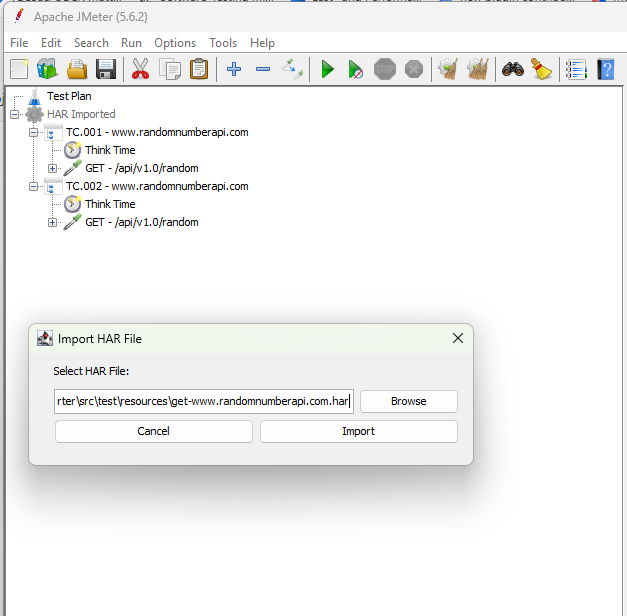
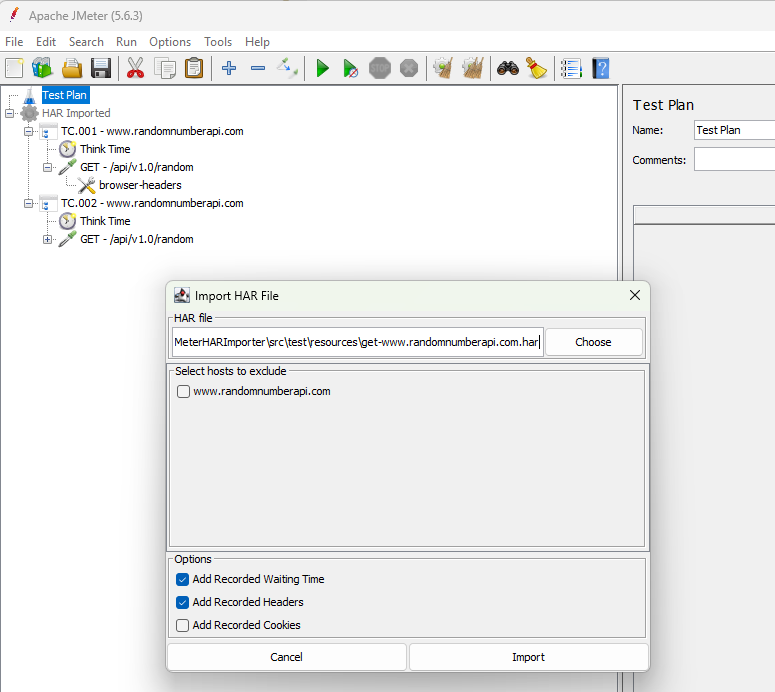
group by timer
and again update version info

Changed region(s): [[0.0, 0.0, 1.0, 1.0], [0.6061, 0.6477, 0.697, 0.6786]]

diff --git a/src/main/java/de/qytera/jmeterharimporter/HARImporter.java b/src/main/java/de/qytera/jmeterharimporter/HARImporter.java
@@ -30,7 +30,9 @@ import java.net.MalformedURLException;
 import java.net.URI;
 import java.net.URL;
 import java.util.Date;
+import java.util.HashMap;
 import java.util.HashSet;
+import java.util.Map;
 import java.util.Set;
 
 public class HARImporter {
@@ -121,19 +123,12 @@ public class HARImporter {
             // Create a Thread Group to hold the requests
             JMeterTreeNode threadGroupNode = addComponent(createThreadGroup(), root);
 
+            Map<Long, JMeterTreeNode> transactionControllers = new HashMap<>();
+            Map<Long, Boolean> transactionControllerHasTimer = new HashMap<>();
+
             int i = 1;
             long lastTimestamp = -1;
             for (HarEntry harEntry : this.har.getLog().getEntries()) {
-                HarRequest harRequest = harEntry.getRequest();
-                URI uri = URI.create(harRequest.getUrl());
-                if (this.hostsIgnored.contains(uri.getHost())) {
-                    continue;
-                }
-                // add a transaction controller for each entry to group the samplers
-                JMeterTreeNode transactionControllerNodeSub = addComponent(createTransactionController(
-                                "TC.%03d - %s".formatted(i++, uri.getHost())),
-                        threadGroupNode);
-
                 // calculate think time
                 if (lastTimestamp == -1) {
                     lastTimestamp = harEntry.getStartedDateTime().getTime(); // first entry should become 0
@@ -142,9 +137,26 @@ public class HARImporter {
                 long currentEntryStartTime = harEntry.getStartedDateTime().getTime();
                 long timeDifference = currentEntryStartTime - lastTimestamp;
 
+                HarRequest harRequest = harEntry.getRequest();
+                URI uri = URI.create(harRequest.getUrl());
+                if (this.hostsIgnored.contains(uri.getHost())) {
+                    continue;
+                }
+                // add a transaction controller for each entry to group the samplers
+                if (transactionControllers.get(timeDifference) == null) {
+                    TransactionController transactionController = createTransactionController("TC.%03d - %s".formatted(i++, uri.getHost()));
+                    JMeterTreeNode transactionControllerNodeSub = addComponent(transactionController, threadGroupNode);
+                    transactionControllers.put(timeDifference, transactionControllerNodeSub);
+                }
+
+                JMeterTreeNode transactionControllerNodeSub = transactionControllers.get(timeDifference);
+
                 // add a constant timer to simulate the think time
                 if (shouldAddThinkTime) {
-                    addComponent(createConstantTimer(timeDifference), transactionControllerNodeSub);
+                    if (transactionControllerHasTimer.get(timeDifference) == null) {
+                        transactionControllerHasTimer.put(timeDifference, true);
+                        addComponent(createConstantTimer(timeDifference), transactionControllerNodeSub);
+                    }
                 }
 
                 // add the http sampler

diff --git a/README.md b/README.md
@@ -44,9 +44,8 @@ This HAR file now contains a detailed record of all network requests and respons
 
 To install the JMeter HAR Importer plugin, follow these steps:
 
-1. Download the latest release of the plugin JAR file from the [GitHub releases page](https://github.com/Qytera-Gmbh/JMeterHARImporterPlugin/releases).
-2. Copy the downloaded JAR file to the "lib/ext" directory within your JMeter installation directory.
-3. Restart JMeter to load the plugin.
+1. In JMeter install the Plugins Manager
+2. Choose the "HAR (HTTP Archive) Import" plugin
 
 # Usage
 
